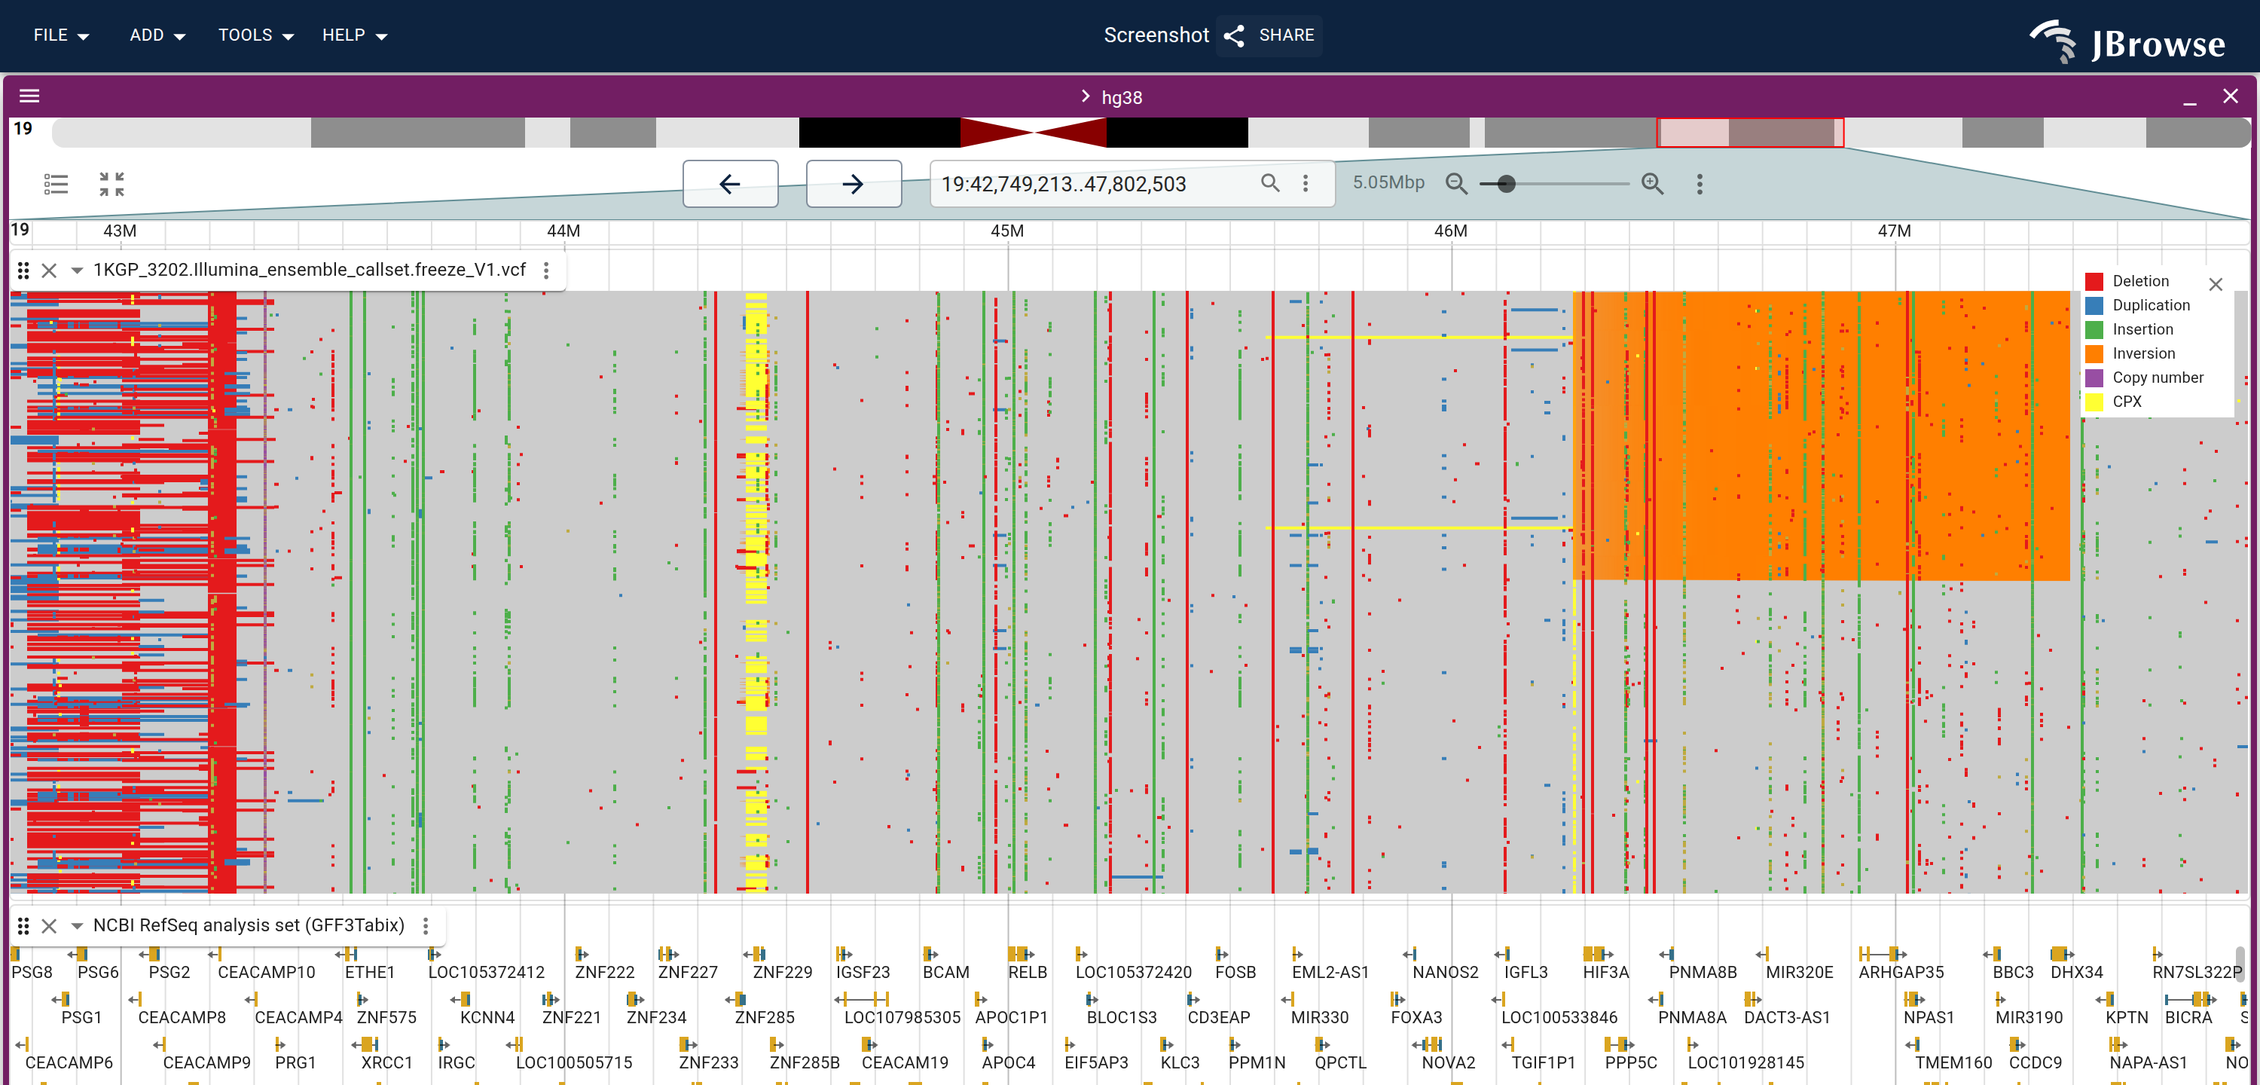
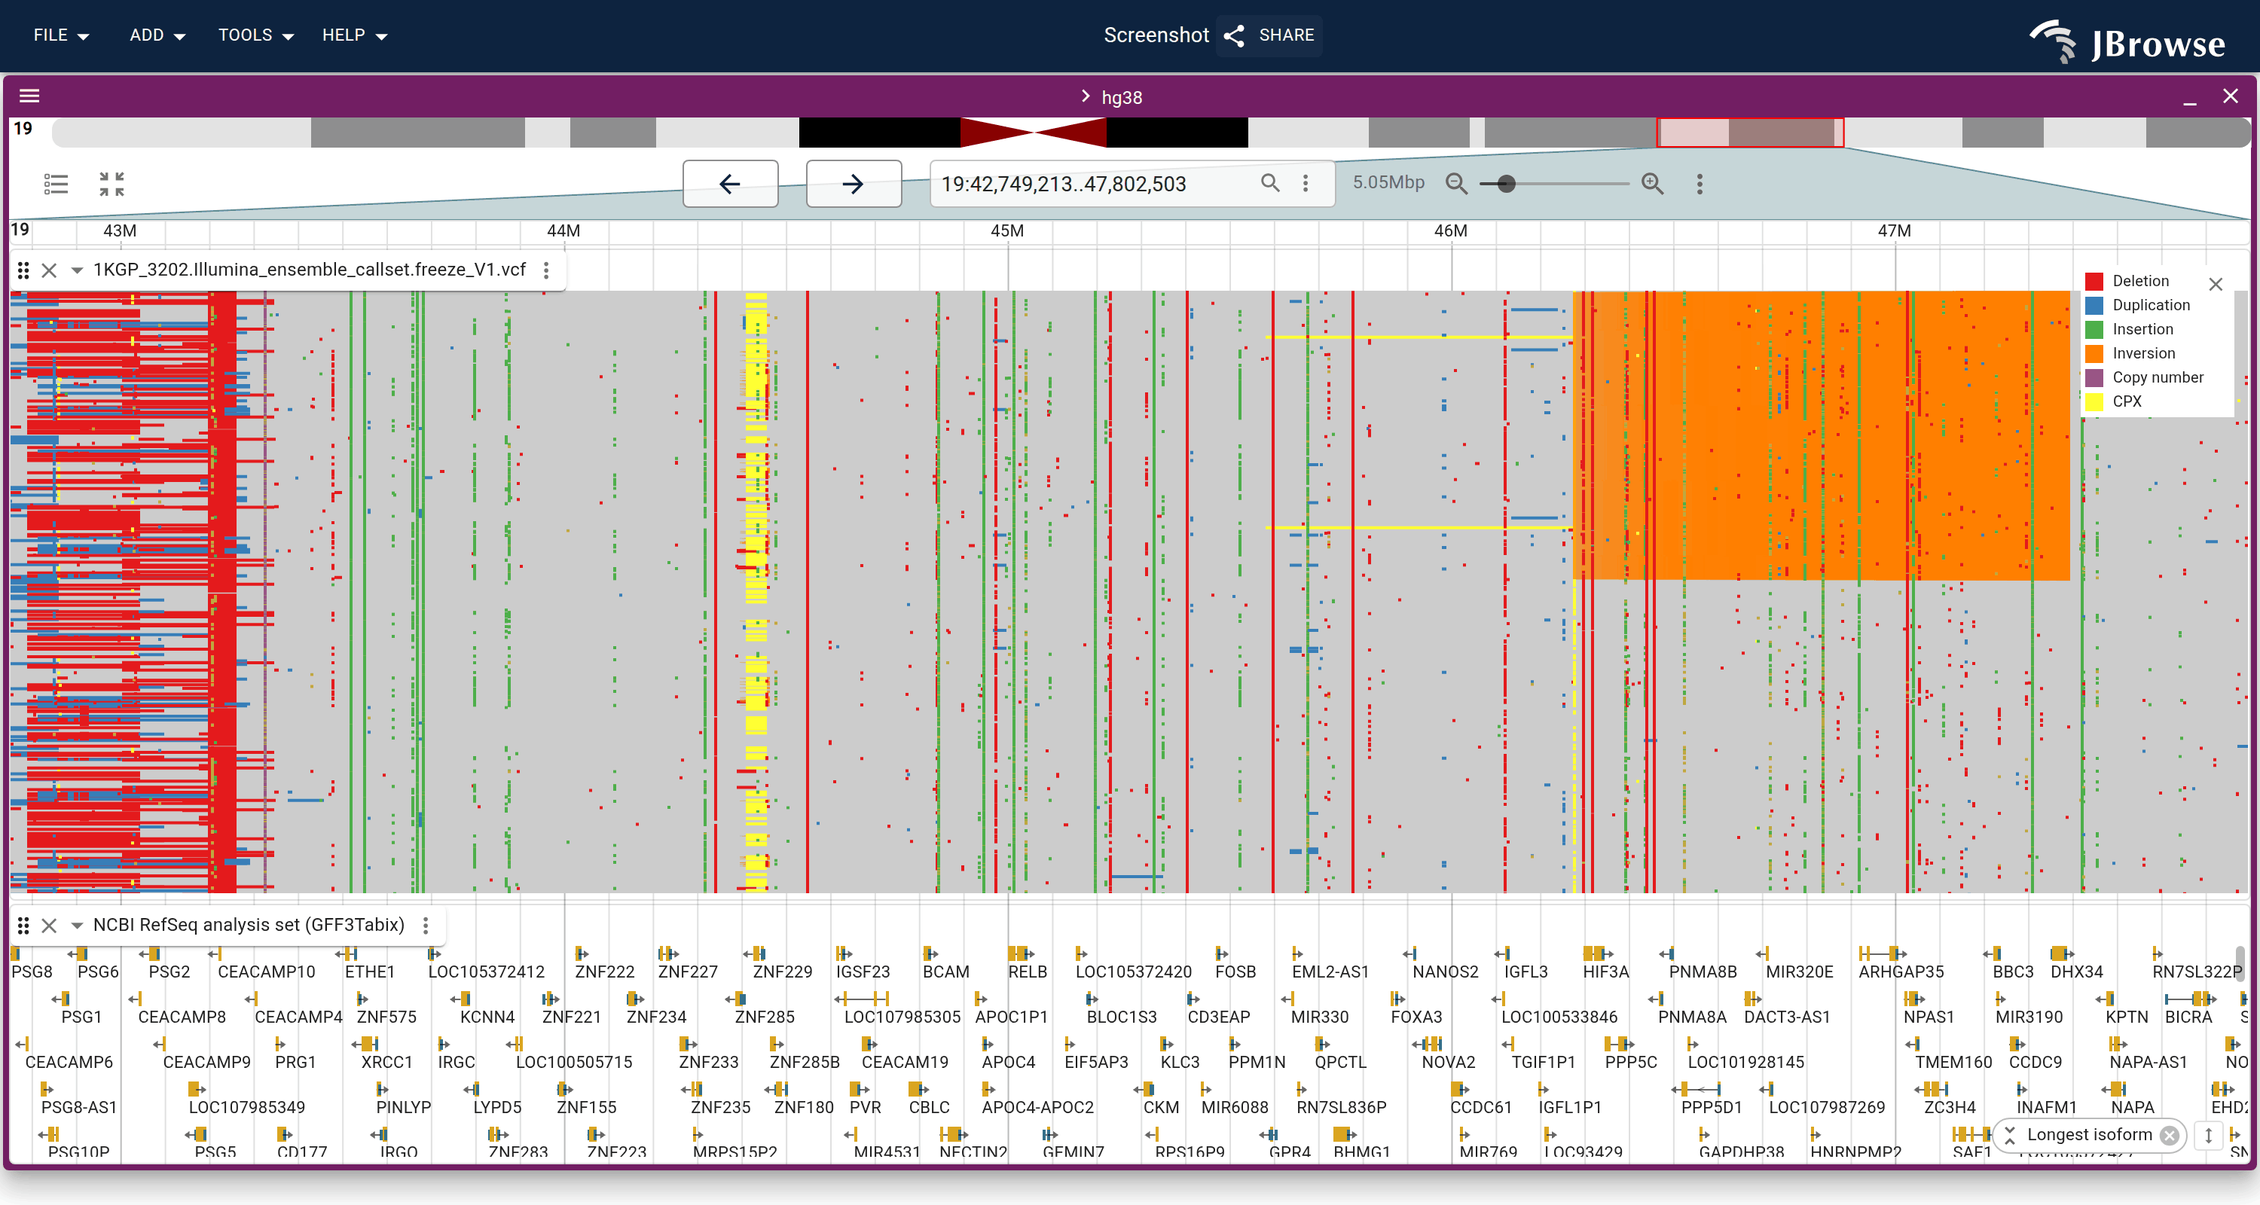
fix(website): work the screenshot-review backlog, retire three dull figures
Acting on `bad` verdicts in scripts/screenshot-review.json.

Track sizing: three specs collapse to one. Review rejected
`alignments/height_mode_fixed` and the `alignments/height_modes` compose
as "not interesting" and asked for `height_mode_fit` to show the
toggling menu instead. Looking at the compose, that is clearly right -
the two stacked frames of the same grey HG002 pileup differed only in
whether the overflow sat behind a scrollbar, invisible at figure scale,
while two full app chromes ate ~40% of the image. So both are deleted
and `height_mode_fit` now opens Track menu -> Read height with the
TRACK SIZING radios and "Fit read height to display" boxed, the same
shape `alignments/compact` uses for the size presets. Labels come from
getHeightModeOptions('read') so they can't drift from the menu. Bonus:
the figure now shows the behaviour the prose claims - no size preset
reads as selected while fitting. alignments_track.md already enumerated
all three modes in text, so it loses nothing and gains the click path.

`multisv_svtype`: viewportHeight 720 -> 800, so the RefSeq lane is
included rather than sliced mid-labels (~2 gene rows -> ~6). The lane
still scrolls internally at its fixed 140px height, which is expected
over a 5Mb window; the app frame is intact.

`pangenome/hprc_mhc_subgraph`: deleted per review ("we are too
comprehensive about always showing the backbone alongside bandage").
pangenome_hprc.md keeps a prose description of the anchored layout, so
[…]

diff --git a/website/src/lib/galleryLinks.generated.ts b/website/src/lib/galleryLinks.generated.ts
@@ -48,7 +48,6 @@ export const specSessionUrls: Record<string, string> = {
   "alignments/haplotype": "?config=test_data/config_demo.json&session=spec-%7B%22sessionTracks%22%3A%5B%7B%22type%22%3A%22AlignmentsTrack%22%2C%22trackId%22%3A%22hg002_nanopore_hp%22%2C%22name%22%3A%22HG002%20ONT%22%2C%22assemblyNames%22%3A%5B%22hg19%22%5D%2C%22adapter%22%3A%7B%22type%22%3A%22BamAdapter%22%2C%22bamLocation%22%3A%7B%22uri%22%3A%22https%3A%2F%2Fftp-trace.ncbi.nlm.nih.gov%2Fgiab%2Fftp%2Fdata%2FAshkenazimTrio%2FHG002_NA24385_son%2FUltralong_OxfordNanopore%2Fcombined_2018-08-10%2FHG002_ONTrel2_16x_RG_HP10xtrioRTG.cram.bam%22%2C%22locationType%22%3A%22UriLocation%22%7D%2C%22index%22%3A%7B%22location%22%3A%7B%22uri%22%3A%22https%3A%2F%2Fftp-trace.ncbi.nlm.nih.gov%2Fgiab%2Fftp%2Fdata%2FAshkenazimTrio%2FHG002_NA24385_son%2FUltralong_OxfordNanopore%2Fcombined_2018-08-10%2FHG002_ONTrel2_16x_RG_HP10xtrioRTG.cram.bam.bai%22%2C%22locationType%22%3A%22UriLocation%22%7D%2C%22indexType%22%3A%22BAI%22%7D%7D%7D%5D%2C%22views%22%3A%5B%7B%22type%22%3A%22LinearGenomeView%22%2C%22assembly%22%3A%22hg19%22%2C%22loc%22%3A%221%3A63%2C005%2C000-63%2C008%2C000%22%2C%22tracks%22%3A%5B%7B%22trackId%22%3A%22hg002_nanopore_hp%22%2C%22type%22%3A%22LinearAlignmentsDisplay%22%2C%22height%22%3A500%2C%22forceLoad%22%3Atrue%2C%22groupBy%22%3A%7B%22type%22%3A%22tag%22%2C%22tag%22%3A%22HP%22%7D%2C%22colorBy%22%3A%7B%22type%22%3A%22tag%22%2C%22tag%22%3A%22HP%22%7D%7D%5D%7D%5D%7D&sessionName=Screenshot",
   "alignments/haplotype_groupby": "?config=test_data/config_demo.json&session=spec-%7B%22sessionTracks%22%3A%5B%7B%22type%22%3A%22AlignmentsTrack%22%2C%22trackId%22%3A%22hg002_nanopore_hp%22%2C%22name%22%3A%22HG002%20ONT%22%2C%22assemblyNames%22%3A%5B%22hg19%22%5D%2C%22adapter%22%3A%7B%22type%22%3A%22BamAdapter%22%2C%22bamLocation%22%3A%7B%22uri%22%3A%22https%3A%2F%2Fftp-trace.ncbi.nlm.nih.gov%2Fgiab%2Fftp%2Fdata%2FAshkenazimTrio%2FHG002_NA24385_son%2FUltralong_OxfordNanopore%2Fcombined_2018-08-10%2FHG002_ONTrel2_16x_RG_HP10xtrioRTG.cram.bam%22%2C%22locationType%22%3A%22UriLocation%22%7D%2C%22index%22%3A%7B%22location%22%3A%7B%22uri%22%3A%22https%3A%2F%2Fftp-trace.ncbi.nlm.nih.gov%2Fgiab%2Fftp%2Fdata%2FAshkenazimTrio%2FHG002_NA24385_son%2FUltralong_OxfordNanopore%2Fcombined_2018-08-10%2FHG002_ONTrel2_16x_RG_HP10xtrioRTG.cram.bam.bai%22%2C%22locationType%22%3A%22UriLocation%22%7D%2C%22indexType%22%3A%22BAI%22%7D%7D%7D%5D%2C%22views%22%3A%5B%7B%22type%22%3A%22LinearGenomeView%22%2C%22assembly%22%3A%22hg19%22%2C%22loc%22%3A%221%3A63%2C005%2C000-63%2C008%2C000%22%2C%22tracks%22%3A%5B%7B%22trackId%22%3A%22hg002_nanopore_hp%22%2C%22type%22%3A%22LinearAlignmentsDisplay%22%2C%22height%22%3A300%2C%22forceLoad%22%3Atrue%7D%5D%7D%5D%7D&sessionName=Screenshot",
   "alignments/compact": "?config=test_data/config_demo.json&session=spec-%7B%22views%22%3A%5B%7B%22type%22%3A%22LinearGenomeView%22%2C%22assembly%22%3A%22hg19%22%2C%22loc%22%3A%22chr1%3A161%2C172%2C613-161%2C181%2C745%22%2C%22tracks%22%3A%5B%7B%22trackId%22%3A%22illumina_hg002%22%2C%22type%22%3A%22LinearAlignmentsDisplay%22%2C%22featureHeight%22%3A3%2C%22featureSpacing%22%3A0%7D%5D%7D%5D%7D&sessionName=Screenshot",
-  "alignments/height_mode_fixed": "?config=test_data/config_demo.json&session=spec-%7B%22views%22%3A%5B%7B%22type%22%3A%22LinearGenomeView%22%2C%22assembly%22%3A%22hg19%22%2C%22loc%22%3A%22chr1%3A161%2C176%2C000-161%2C178%2C500%22%2C%22tracks%22%3A%5B%7B%22trackId%22%3A%22illumina_hg002%22%2C%22type%22%3A%22LinearAlignmentsDisplay%22%2C%22heightMode%22%3A%22fixed%22%2C%22height%22%3A260%7D%5D%7D%5D%7D&sessionName=Screenshot",
   "alignments/height_mode_fit": "?config=test_data/config_demo.json&session=spec-%7B%22views%22%3A%5B%7B%22type%22%3A%22LinearGenomeView%22%2C%22assembly%22%3A%22hg19%22%2C%22loc%22%3A%22chr1%3A161%2C176%2C000-161%2C178%2C500%22%2C%22tracks%22%3A%5B%7B%22trackId%22%3A%22illumina_hg002%22%2C%22type%22%3A%22LinearAlignmentsDisplay%22%2C%22heightMode%22%3A%22fit%22%2C%22height%22%3A260%7D%5D%7D%5D%7D&sessionName=Screenshot",
   "alignments/select_arc_display": "?config=test_data/volvox/config.json&session=spec-%7B%22views%22%3A%5B%7B%22type%22%3A%22LinearGenomeView%22%2C%22assembly%22%3A%22volvox%22%2C%22loc%22%3A%22ctgA%3A1-50000%22%2C%22tracks%22%3A%5B%22volvox_sv_cram%22%5D%7D%5D%7D&sessionName=Screenshot",
   "rnaseq/basic": "?config=test_data/config_demo.json&session=spec-%7B%22views%22%3A%5B%7B%22type%22%3A%22LinearGenomeView%22%2C%22assembly%22%3A%22hg19%22%2C%22loc%22%3A%22chr7%3A5%2C567%2C000-5%2C570%2C000%22%2C%22trackLabels%22%3A%22offset%22%2C%22tracks%22%3A%5B%22ncbi_gff_hg19%22%2C%7B%22trackId%22%3A%22Pairend_StrandSpecific_51mer_Human_hg19%22%2C%22type%22%3A%22LinearAlignmentsDisplay%22%2C%22coverageHeight%22%3A120%2C%22height%22%3A460%2C%22maxHeight%22%3A2000%2C%22minSashimiScore%22%3A3%7D%5D%7D%5D%7D&sessionName=Screenshot",
@@ -201,7 +200,6 @@ export const specSessionUrls: Record<string, string> = {
   "pangenome/graph_rgfa": "?config=test_data/graphgenomeview/config.json&session=spec-%7B%22views%22%3A%5B%7B%22type%22%3A%22GraphGenomeView%22%2C%22gfaLocation%22%3A%7B%22uri%22%3A%22https%3A%2F%2Fjbrowse.org%2Fdemos%2Fecoli_pangenome%2Fecoli_rgfa_slice.gfa%22%7D%2C%22colorScheme%22%3A%22stable-rank%22%7D%5D%7D&sessionName=Screenshot",
   "pangenome/graph_force": "?config=test_data/graphgenomeview/config.json&session=spec-%7B%22views%22%3A%5B%7B%22type%22%3A%22GraphGenomeView%22%2C%22gfaLocation%22%3A%7B%22uri%22%3A%22https%3A%2F%2Fjbrowse.org%2Fdemos%2Fecoli_pangenome%2Fecoli_rgfa_slice.gfa%22%7D%2C%22layoutMode%22%3A%22force%22%2C%22colorScheme%22%3A%22stable-rank%22%7D%5D%7D&sessionName=Screenshot",
   "pangenome/rgfa_subgraph_launch": "?config=test_data/graphgenomeview/config.json&session=spec-%7B%22sessionTracks%22%3A%5B%7B%22type%22%3A%22FeatureTrack%22%2C%22trackId%22%3A%22ecoli_minigraph_segments%22%2C%22name%22%3A%22minigraph%20graph%20segments%20(rGFA)%22%2C%22assemblyNames%22%3A%5B%22K12%22%5D%2C%22adapter%22%3A%7B%22type%22%3A%22RgfaTabixAdapter%22%2C%22uri%22%3A%22https%3A%2F%2Fjbrowse.org%2Fdemos%2Fecoli_pangenome%2Fecoli_minigraph%22%7D%7D%5D%2C%22views%22%3A%5B%7B%22type%22%3A%22LinearGenomeView%22%2C%22assembly%22%3A%22K12%22%2C%22loc%22%3A%22chr%3A4%2C050%2C000-4%2C100%2C000%22%2C%22tracks%22%3A%5B%22ecoli_minigraph_segments%22%5D%7D%2C%7B%22type%22%3A%22GraphGenomeView%22%2C%22loadedTrackId%22%3A%22ecoli_minigraph_segments%22%2C%22loadedRegion%22%3A%7B%22refName%22%3A%22chr%22%2C%22assemblyName%22%3A%22K12%22%2C%22start%22%3A4050000%2C%22end%22%3A4100000%7D%2C%22colorScheme%22%3A%22stable-rank%22%7D%5D%7D&sessionName=Screenshot",
-  "pangenome/hprc_mhc_subgraph": "?config=test_data/graphgenomeview/hprc.json&session=spec-%7B%22views%22%3A%5B%7B%22type%22%3A%22LinearGenomeView%22%2C%22assembly%22%3A%22hg38%22%2C%22loc%22%3A%22chr6%3A32%2C500%2C000-32%2C560%2C000%22%2C%22tracks%22%3A%5B%22hg38_ncbiRefSeq_ucsc%22%2C%22hprc_minigraph_bubbles%22%2C%22hprc_minigraph_segments%22%5D%7D%2C%7B%22type%22%3A%22GraphGenomeView%22%2C%22loadedTrackId%22%3A%22hprc_minigraph_segments%22%2C%22loadedRegion%22%3A%7B%22refName%22%3A%22chr6%22%2C%22assemblyName%22%3A%22hg38%22%2C%22start%22%3A32500000%2C%22end%22%3A32560000%7D%2C%22colorScheme%22%3A%22stable-rank%22%7D%5D%7D&sessionName=Screenshot",
   "pangenome/hprc_mhc_bandage": "?config=test_data/graphgenomeview/hprc.json&session=spec-%7B%22views%22%3A%5B%7B%22type%22%3A%22LinearGenomeView%22%2C%22assembly%22%3A%22hg38%22%2C%22loc%22%3A%22chr6%3A32%2C500%2C000-32%2C560%2C000%22%2C%22tracks%22%3A%5B%22hg38_ncbiRefSeq_ucsc%22%2C%22hprc_minigraph_bubbles%22%2C%22hprc_minigraph_segments%22%5D%7D%2C%7B%22type%22%3A%22GraphGenomeView%22%2C%22loadedTrackId%22%3A%22hprc_minigraph_segments%22%2C%22loadedRegion%22%3A%7B%22refName%22%3A%22chr6%22%2C%22assemblyName%22%3A%22hg38%22%2C%22start%22%3A32500000%2C%22end%22%3A32560000%7D%2C%22layoutMode%22%3A%22force%22%2C%22colorScheme%22%3A%22stable-rank%22%7D%5D%7D&sessionName=Screenshot",
   "hprc2/mhc_matrix": "?config=test_data/hprc2/config.json&session=spec-%7B%22views%22%3A%5B%7B%22type%22%3A%22LinearGenomeView%22%2C%22assembly%22%3A%22hg38%22%2C%22loc%22%3A%22chr6%3A32%2C450%2C000-32%2C650%2C000%22%2C%22tracks%22%3A%5B%7B%22trackId%22%3A%22hprc2_wave_grch38%22%2C%22type%22%3A%22LinearMultiSampleVariantMatrixDisplay%22%2C%22height%22%3A700%7D%5D%7D%5D%7D&sessionName=Screenshot",
   "hprc2/mhc_clustered": "?config=test_data/hprc2/config.json&session=spec-%7B%22views%22%3A%5B%7B%22type%22%3A%22LinearGenomeView%22%2C%22assembly%22%3A%22hg38%22%2C%22loc%22%3A%22chr6%3A32%2C450%2C000-32%2C650%2C000%22%2C%22tracks%22%3A%5B%7B%22trackId%22%3A%22hprc2_wave_grch38%22%2C%22type%22%3A%22LinearMultiSampleVariantMatrixDisplay%22%2C%22height%22%3A700%2C%22runClustering%22%3Atrue%7D%5D%7D%5D%7D&sessionName=Screenshot",

diff --git a/website/scripts/specs/alignments.ts b/website/scripts/specs/alignments.ts
@@ -735,34 +735,18 @@ export const alignmentsSpecs: ScreenshotSpec[] = [
     ],
   },
 
-  // Track sizing modes, as two declarative sessions composed into one before/
-  // after (see the website CLAUDE.md: prefer `compose` over menu-driving when
-  // each state is its own session). Same track, same locus, same 260px track
-  // height in both parts, so the ONLY difference is heightMode: `fixed` draws
-  // reads at their configured height and scrolls the overflow away, `fit`
-  // derives the height from the display so every row lands on screen. The
-  // HG002 Illumina pileup is deep enough at this locus that the contrast is
-  // unmistakable. Remote DEMO_CONFIG data, hence the long ready timeout.
-  {
-    mode: 'url',
-    name: 'alignments/height_mode_fixed',
-    url: lgvSession(DEMO_CONFIG, {
-      assembly: 'hg19',
-      loc: 'chr1:161,176,000-161,178,500',
-      tracks: [
-        {
-          trackId: 'illumina_hg002',
-          type: 'LinearAlignmentsDisplay',
-          heightMode: 'fixed',
-          height: 260,
-        },
-      ],
-    }),
-    readyText: 'HG002',
-    readyTimeout: 60000,
-    settleMs: 12000,
-    viewportHeight: 420,
-  },
+  // Fit read height, with the menu path that sets it. Was a three-spec
+  // before/after compose (fixed + fit, stacked): review rejected all three as
+  // "not interesting" and asked for the toggling menu to be open instead, and
+  // looking at that figure the call is obvious — two 260px pileups of the same
+  // grey HG002 Illumina reads differ only in whether the overflow is behind a
+  // scrollbar, which is nearly invisible at figure scale, while two full app
+  // chromes ate ~40% of the image. The prose in alignments_track.md already
+  // spells out all three modes, so the figure's job is "where do I click", the
+  // same job alignments/compact does for the size presets.
+  //
+  // Labels come from getHeightModeOptions('read') so they cannot drift from the
+  // menu; 'Track sizing' is a subheader inside the "Read height" submenu.
   {
     mode: 'url',
     name: 'alignments/height_mode_fit',
@@ -781,12 +765,15 @@ export const alignmentsSpecs: ScreenshotSpec[] = [
     readyText: 'HG002',
     readyTimeout: 60000,
     settleMs: 12000,
-    viewportHeight: 420,
-  },
-  {
-    mode: 'compose',
-    name: 'alignments/height_modes',
-    parts: ['alignments/height_mode_fixed', 'alignments/height_mode_fit'],
+    viewportHeight: 560,
+    actions: [
+      { type: 'click', selector: '[data-testid="track_menu_icon"]' },
+      ...menuCascade(['Read height', 'Fit read height to display'], 800),
+    ],
+    annotations: [
+      { type: 'box', anchor: { text: 'Read height' } },
+      { type: 'box', anchor: { text: 'Fit read height to display' } },
+    ],
   },
 
   // Read connections (arc display): two-stage figure on the volvox-sv CRAM (whose

diff --git a/website/scripts/specs/graph.ts b/website/scripts/specs/graph.ts
@@ -173,40 +173,6 @@ export const graphSpecs: ScreenshotSpec[] = [
     viewportHeight: 900,
     hideTooltip: true,
   },
-  // The HPRC release-2 graph at HLA class II, anchored: the bubble and segment
-  // feature tracks in a linear view of the window, and the subgraph the launch
-  // menu cuts from that same window below it. Both come out of the two tabix
-  // indexes, so the segment ids above are the nodes below at the same offsets.
-  {
-    mode: 'url',
-    name: 'pangenome/hprc_mhc_subgraph',
-    url: sessionSpec(HPRC_CONFIG, {
-      views: [
-        {
-          type: 'LinearGenomeView',
-          assembly: 'hg38',
-          loc: 'chr6:32,500,000-32,560,000',
-          tracks: [
-            'hg38_ncbiRefSeq_ucsc',
-            'hprc_minigraph_bubbles',
-            SEGMENTS_TRACK,
-          ],
-        },
-        {
-          type: 'GraphGenomeView',
-          loadedTrackId: SEGMENTS_TRACK,
-          loadedRegion: MHC_REGION,
-          colorScheme: 'stable-rank',
-        },
-      ],
-    }),
-    readySelector: TOOLBAR_READY,
-    readyTimeout: 90000,
-    settleMs: 4000,
-    viewportWidth: 1000,
-    viewportHeight: 1300,
-    hideTooltip: true,
-  },
   // The same window in the force layout, the Bandage picture the graph is really
   // about: the backbone winds through the frame and every loop off it is an
   // alternate allele from the 464 haplotypes. FMMM again, hence diffThreshold.

diff --git a/website/scripts/specs/tcga.ts b/website/scripts/specs/tcga.ts
@@ -355,6 +355,14 @@ export const tcgaSpecs: ScreenshotSpec[] = [
     // matches. The stack still pulls the whole 5.7MB BED before it paints.
     readyTimeout: 300000,
     viewportWidth: 1900,
+    // Review asked to increase the browser height so the cohort heatmap isn't
+    // sliced at the bottom edge, and the truncation is real. Left at 860 on
+    // purpose: raising it re-runs a capture that has NO data-derived
+    // readySelector (see the note above — there is nothing to gate on, and the
+    // stack pulls 5.7MB before it paints), and at 1200 the generator committed a
+    // bare "Loading" frame. Gate this spec on a data-derived element first, then
+    // retune the height; a taller viewport on a race-prone capture just makes the
+    // bad frame bigger.
     viewportHeight: 860,
     settleMs: 20000,
     // 1104 rows floored to 1px alias differently run to run, same as the

diff --git a/website/scripts/specs/ui.ts b/website/scripts/specs/ui.ts
@@ -350,7 +350,10 @@ export const uiSpecs: ScreenshotSpec[] = [
     }),
     readyText: '1KGP',
     readyTimeout: 90000,
-    viewportHeight: 720,
+    // clears the 400px matrix plus the 140px gene track: at 720 the RefSeq
+    // lane was sliced off mid-labels, cutting the genes the SV calls line up
+    // against
+    viewportHeight: 800,
     settleMs: 35000,
     hideTooltip: true,
     actions: [

diff --git a/website/docs/tutorials/pangenome_hprc.md b/website/docs/tutorials/pangenome_hprc.md
@@ -141,9 +141,11 @@ since the layout stops being legible.
 
 That is the picture the graph is really about. The toolbar's **Layout** dropdown
 also offers an **anchored** layout that puts the x axis back on GRCh38, so the
-subgraph lines up under a linear view of the same window:
-
-<Figure caption="The same window anchored to GRCh38: the bubble track and the graph's segments as a feature track on top, the subgraph below. The blue line is the rank-0 backbone at its declared offsets; every orange bar below it is an alternate allele. Each rank is a parallel row, so a bubble reads as a pair of stalks rather than an eye, but the reference axis stays exact and the layout renders in about a millisecond." src="/img/pangenome/hprc_mhc_subgraph.png" />
+subgraph lines up under a linear view of the same window: the rank-0 backbone
+draws at its declared offsets with each alternate allele as a bar below it. Each
+rank becomes a parallel row, so a bubble reads as a pair of stalks rather than an
+eye, but the reference axis stays exact and the layout renders in about a
+millisecond.
 
 Loci where the graph is worth a look, all on GRCh38. Zoom to a few tens of kb,
 the scale the view is built for:

diff --git a/website/docs/user_guides/alignments_track.md b/website/docs/user_guides/alignments_track.md
@@ -168,7 +168,7 @@ Under the **Track sizing** subheading in the same submenu are three modes:
   growing back as it thins. Because the size is computed, no size preset reads
   as selected while fitting; picking one drops back to fixed.
 
-<Figure src="/img/alignments/height_modes.png" links="Fixed read height=alignments/height_mode_fixed,Fit read height to display=alignments/height_mode_fit" caption="The same HG002 Illumina pileup in a 260px track. Top, fixed read height: reads keep their size and most of the pileup is off-screen behind the scrollbar. Bottom, fit read height to display: the read height is derived from the track height, so every row lands on screen." />
+<Figure src="/img/alignments/height_mode_fit.png" caption="The Track sizing options inside the Read height submenu, with Fit read height to display selected on a 260px HG002 Illumina track. Because the size is computed while fitting, none of the Normal / Compact / Super-compact presets above it read as selected." />
 
 Fit mode is the one to reach for when you care about the shape of a pileup
 rather than individual bases: drag the track taller or shorter and the reads
